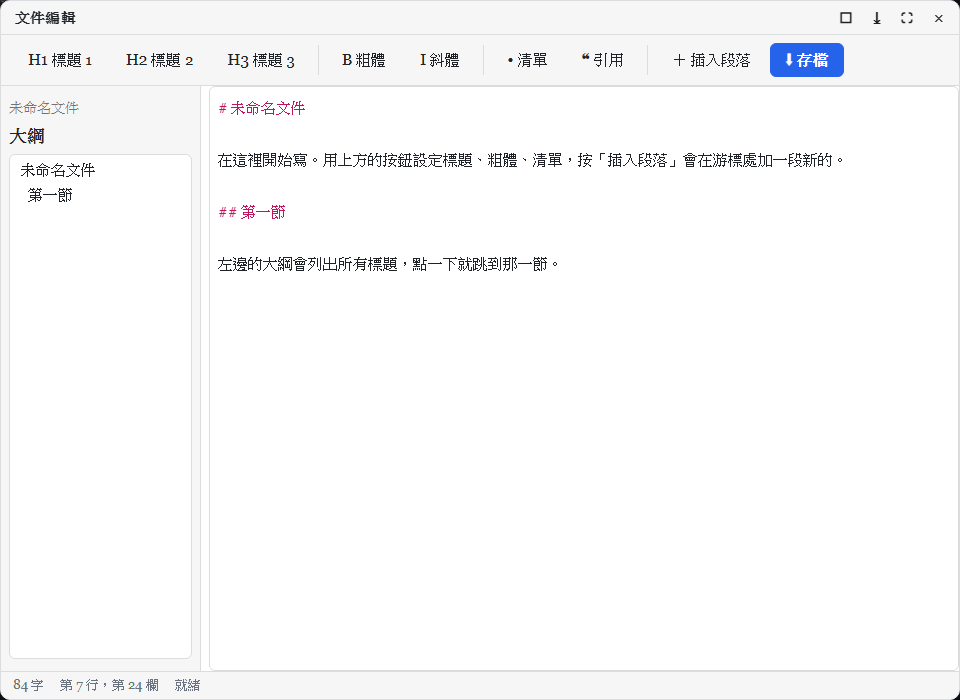
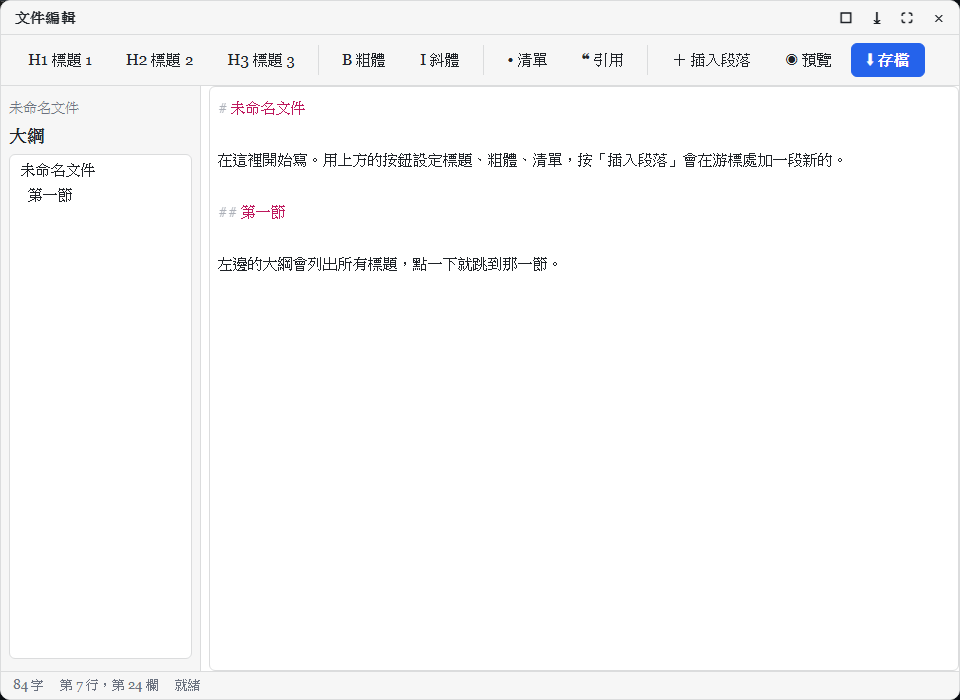
圖形介面範本回饋修正：預覽／換行／範例程式的驗證紀錄、全範本事件驗證重跑（略過檔案選擇鈕）、重截 28 張截圖

Changed region(s): [[0.7812, 0.06, 0.9688, 0.12], [0.2188, 0.3, 0.25, 0.33]]

diff --git a/desktop-app/scripts/eval/guitpl_verify.eval.js b/desktop-app/scripts/eval/guitpl_verify.eval.js
@@ -91,8 +91,14 @@ for (const id of entries) {
   }
   // 按鈕
   let clicked = 0;
-  for (const b of Array.from(w() ? w().querySelectorAll('.gui-button') : [])) { if (document.body.contains(b)) { b.click(); clicked++; await wait(150); } }
-  r.clicked = clicked;
+  // 「開啟照片／圖片」會叫出系統檔案選擇視窗，程式要等人選檔，自動化沒辦法回答，所以略過並記下來（已知限制）
+  let skipped = 0;
+  for (const b of Array.from(w() ? w().querySelectorAll('.gui-button') : [])) {
+    if (!document.body.contains(b)) continue;
+    if (/^\s*(\S\s)?開啟(照片|圖片)/.test(b.textContent || '')) { skipped++; continue; }
+    b.click(); clicked++; await wait(150);
+  }
+  r.clicked = clicked; if (skipped) { r.skipped_file_dialog = skipped; }
   await wait(300);
   r.changed = winText(firstWin()) !== before;
   const f = await h.finish();

diff --git a/desktop-app/docs/VERIFY.gui-templates.md b/desktop-app/docs/VERIFY.gui-templates.md
@@ -131,3 +131,11 @@
 - **單元測試**：`gui_bridge`（133）、`gui_render`（104）、`gui_host`（42）、`py_worker`、`py_async`、`js_program`、`gui_py_test`（52）、`gui_pygame_test`、`guitpl_test`、`document_test`（25）、`guitpl_ai`、`jsonl_core`、`yaml_core`；lint 71 個元件 0 個有問題（含新規則：主範本要 resizable、有 height、有 grow）。
 - **未重跑**：`guitpl_verify.eval.js`（43 個範本逐一送事件）因為第一次啟動被自動更新視窗擋住沒有結果，之後沒有再跑；`native_driver.js` 的鍵盤段仍有舊的遮罩問題（用 `FA_UPDATE_BASE` 繞過應可解，未驗證）。
 - **已知限制**：游標位置只在鍵盤放開、滑鼠放開、取得或失去焦點時回報；編輯器沒有自動換行；`prose` 模式為了不讓游標與上色層錯位，上色不用粗體與斜體（只用顏色）；選單下拉在點外面時不會自動收起。
+
+
+## 2026-11-15 管理者回饋修正驗證（預覽、自動換行、範例程式、重跑）
+
+- **修好的點**：（1）「插入的標題黏在同一行」：驅動程式原本用字元事件打 `\n`，真鍵盤並沒有換行，所以 `## abc` 跟前一行黏在一起，是驅動的問題不是範本；改成真的 Return 鍵後，最後一行確實是獨立的 `## abc`（`typed.own_line: true`），插入段落在函式裡本來就會前後各留一個空行。（2）文件範本新增「預覽」鍵（Ctrl+E）：編輯與預覽切換，預覽用新的唯讀 `markdown` 元件把標題、粗體、清單畫成排版後的樣子；真桌面版量到預覽有 1 個一級標題、2 個二級標題，一級標題字級 29.9 像素（`k.preview`），截圖 `docs/gui-templates-shots/document_preview.png`。（3）文字編輯器開窗就帶一段 Python 範例，上色、多行行號、捲軸都看得到（`text-editor_light.png`、`text-editor_dark.png`）。（4）編輯器新增 `wrap`：文件預設開、程式編輯器預設關，文字編輯器工具列有「自動換行」勾選。
+- **截圖驅動**：跑一次，26 張全部成功、非空白，沒有 Traceback 或 [guitpl] 錯誤；鍵盤與滑鼠檢查全部通過（打字保持焦點、插入段落、點大綱跳轉）。預覽範例文件裡沒有粗體與清單所以量到 0 個，粗體與清單的排版由 `gui_render` 單元測試覆蓋。
+- **全範本事件驗證 `guitpl_verify.eval.js`**：跑了兩次。第一次 44 個完整範本有 6 個失敗（idphoto、image 的 main 與兩個配色變體），原因是「開啟照片／圖片」按鈕叫出系統檔案選擇視窗，程式等人選檔，自動化無法回答，所以視窗關了程式也沒結束；不是版面改版造成的程式錯誤。驅動程式改成略過這兩個按鈕並記錄（`skipped_file_dialog`）後第二次：44 個完整範本、28 個子元件全部通過（沒有 Traceback、沒有 [guitpl] 錯誤、程式都正常結束）。**已知限制**：檔案選擇視窗的流程沒有被自動驗證。
+- **單元測試**：`gui_bridge` 137、`gui_render` 112、`gui_host` 42、`gui_py_test` 54、`document_test` 28、`guitpl_test`；lint 71 個元件 0 個有問題。

diff --git a/desktop-app/DESIGN.gui-templates.md b/desktop-app/DESIGN.gui-templates.md
@@ -342,3 +342,10 @@ renderer/src/guitpl/
 ## 13. 文件編輯範本（2026-11-15，交接 3）
 
 使用者原話：「辦公的文件編輯的範本顯得太rough，插入段落卻變成一個大大的額外的方塊，編輯區還沒有填滿視窗」。`document/main` 重做：工具列（標題 1 到 3、粗體、斜體、清單、引用、插入段落、存檔，群組之間有分隔線）＋大綱側欄＋**單一整面編輯區**（Markdown、`prose` 閱讀字型）＋狀態列（字數、第幾行第幾欄、訊息）。所有編輯都在游標處改編輯區的文字：標題（再按同級取消）、粗體與斜體（包住選取文字，沒選就放預設字並選起來，再按取消）、清單與引用（選到的每一行加前綴，再按取消）、插入段落（在游標處切開、上下各留一個空行、放「新段落」並選起來，直接打字就蓋掉）。大綱列出 `#` 標題（程式碼圍欄裡的不算），縮排表示層級，點一下游標就跳到那一行；內容變了才重畫大綱。快捷鍵：Ctrl+S、Ctrl+B、Ctrl+I、Ctrl+1／2／3、Ctrl+Enter（插入段落）。文字處理都是純函式（`toolbar.py` 的 `apply_*`），單元測試 `renderer/src/guitpl/document_test.py`。文字編輯器範本改成填滿視窗，加 `lang` 參數與「語法」按鈕（每按一次換下一種語法上色，文字不會丟）。
+
+## 14. 預覽、自動換行與範例（2026-11-15，管理者回饋）
+
+- **文件的排版呈現，選「編輯與預覽切換」而不是在編輯區內直接排版**：編輯區是透明輸入框疊在上色層上，兩層要字形寬度與行高完全一致才不會游標錯位；若標題變大、粗體變粗，兩層的字形寬度就不同，游標會對不準。所以編輯模式維持等寬排版（`#` 記號淡化顯示、標題用顏色區分），要看排版後的樣子就按「預覽」（Ctrl+E）。預覽用新的唯讀元件 `markdown`（屬性 `value`，可用 `set` 更新），只用 `createElement` 與 `textContent` 組出 h1 到 h6、粗體、斜體、清單、引用、程式碼與分隔線，不用 `innerHTML`。預覽中工具列的改文字動作暫停。
+- **編輯器 `wrap`**：布林，開了就自動換行（水平捲軸消失、游標與行號仍對齊）；文件預設開，文字編輯器預設關，工具列有勾選。
+- **文字編輯器**：開窗帶一段 Python 範例（參數 `content`、`lang` 預設 `python`），語法按鈕循環切換。
+- **插入段落與標題**：一律在自己的一行，前後各留一個空行。
